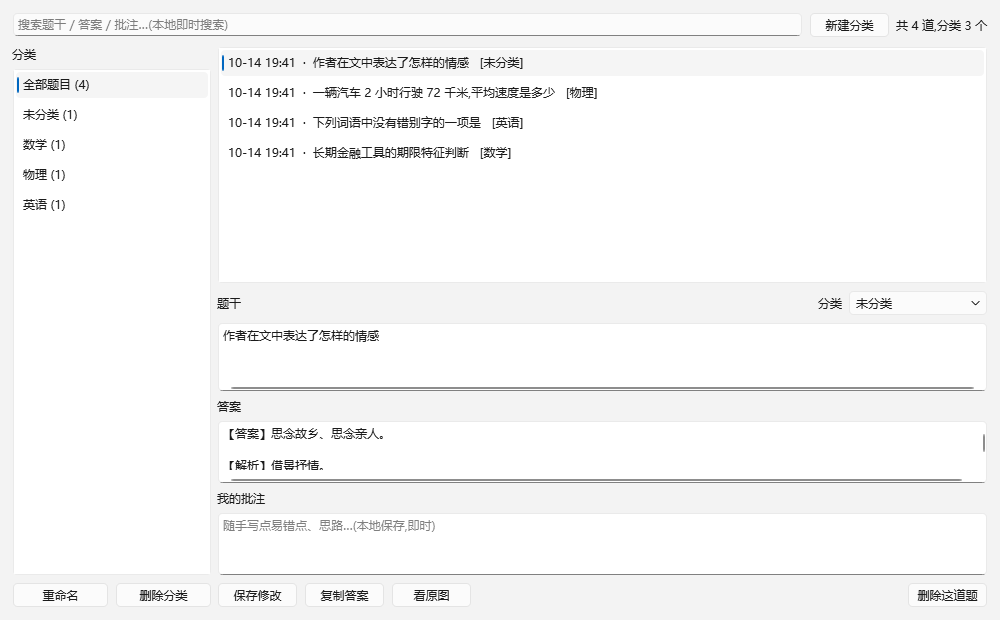
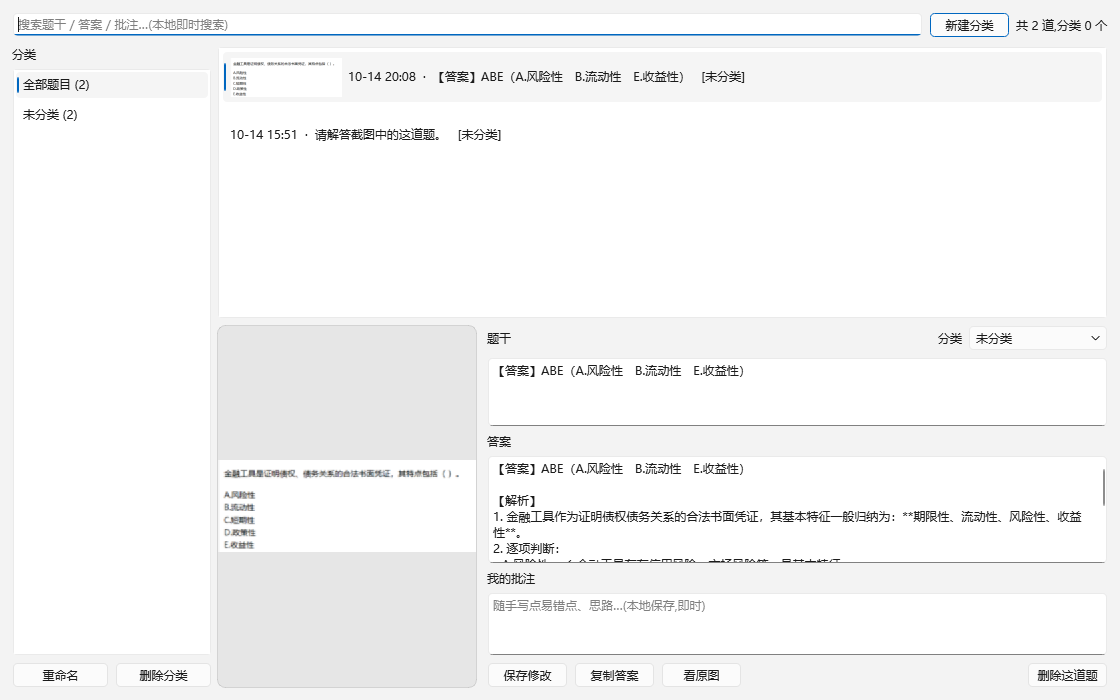
收藏夹:列表加缩略图,详情区显示题目大图(截图直接当题干)
- 列表每行显示截图缩略图,一眼认出是哪道题,不依赖文字识别
- 详情区左侧显示题目大图,点一下打开原图
- 配置加 prompt_version,老配置里存的旧默认提示词自动升级
  (之前改了默认提示词但被用户 config.json 覆盖,新要求永远不生效)

diff --git a/screen_qa/collection_window.py b/screen_qa/collection_window.py
@@ -8,8 +8,8 @@ from __future__ import annotations
 
 import os
 
-from PySide6.QtCore import Qt, Signal
-from PySide6.QtGui import QGuiApplication
+from PySide6.QtCore import QSize, Qt, Signal
+from PySide6.QtGui import QGuiApplication, QPixmap
 from PySide6.QtWidgets import (
     QComboBox,
     QDialog,
@@ -17,6 +17,7 @@ from PySide6.QtWidgets import (
     QInputDialog,
     QLabel,
     QLineEdit,
+    QSizePolicy,
     QListWidget,
     QListWidgetItem,
     QMessageBox,
@@ -32,6 +33,57 @@ from .logging_setup import log
 from .toast import toast
 
 _ALL_LABEL = "全部题目"
+_THUMB_SIZE = QSize(112, 44)      # 列表里缩略图的尺寸
+_ROW_HEIGHT = 54                  # 列表行高(要放得下缩略图)
+
+
+class ImagePreview(QLabel):
+    """按比例缩放显示截图,点一下可以打开原图。"""
+
+    clicked = Signal()
+
+    def __init__(self, parent=None) -> None:
+        super().__init__(parent)
+        self.setAlignment(Qt.AlignmentFlag.AlignCenter)
+        self.setMinimumWidth(240)
+        self.setSizePolicy(QSizePolicy.Policy.Fixed, QSizePolicy.Policy.Ignored)
+        self.setCursor(Qt.CursorShape.PointingHandCursor)
+        self.setStyleSheet(
+            "QLabel { background: rgba(128,128,128,28); border: 1px solid rgba(128,128,128,60);"
+            " border-radius: 8px; color: #8A93A5; }"
+        )
+        self._source: QPixmap | None = None
+        self.setText("选择左边的题目\n这里显示题目截图")
+
+    def set_image(self, pixmap: QPixmap | None) -> None:
+        self._source = pixmap
+        if pixmap is None or pixmap.isNull():
+            self.setText("(这道题没有截图)")
+            self.setToolTip("")
+            return
+        self.setText("")
+        self.setToolTip("点一下看原图")
+        self._rescale()
+
+    def _rescale(self) -> None:
+        if self._source is None or self._source.isNull():
+            return
+        available = self.size()
+        if available.width() < 20 or available.height() < 20:
+            return
+        self.setPixmap(self._source.scaled(
+            available, Qt.AspectRatioMode.KeepAspectRatio,
+            Qt.TransformationMode.SmoothTransformation))
+
+    def resizeEvent(self, event):  # noqa: N802
+        self._rescale()
+        super().resizeEvent(event)
+
+    def mousePressEvent(self, event):  # noqa: N802
+        if event.button() == Qt.MouseButton.LeftButton:
+            self.clicked.emit()
+        super().mousePressEvent(event)
+
 _UNSORTED_LABEL = "未分类"
 
 
@@ -49,8 +101,8 @@ class CollectionWindow(QDialog):
 
         self.setWindowTitle("收藏夹 - 截图自动搜题")
         self.setWindowFlag(Qt.WindowType.WindowContextHelpButtonHint, False)
-        self.setMinimumSize(880, 560)
-        self.resize(980, 640)
+        self.setMinimumSize(940, 600)
+        self.resize(1120, 700)
         self._build_ui()
         self.reload()
 
@@ -106,15 +158,30 @@ class CollectionWindow(QDialog):
         right_box.setSpacing(6)
 
         self.item_list = QListWidget(right)
+        self.item_list.setIconSize(_THUMB_SIZE)
+        self.item_list.setSpacing(2)
         self.item_list.currentRowChanged.connect(self._on_item_changed)
         right_box.addWidget(self.item_list, 3)
 
         detail = QWidget(right)
-        detail_box = QVBoxLayout(detail)
+        detail_box = QHBoxLayout(detail)
         detail_box.setContentsMargins(0, 0, 0, 0)
-        detail_box.setSpacing(6)
+        detail_box.setSpacing(10)
 
-        row1 = QWidget(detail)
+        # 左:题目截图大图
+        self.preview = ImagePreview(detail)
+        self.preview.setFixedWidth(260)
+        self.preview.clicked.connect(self.open_image)
+        detail_box.addWidget(self.preview)
+
+        # 右:文字
+        text_panel = QWidget(detail)
+        text_box = QVBoxLayout(text_panel)
+        text_box.setContentsMargins(0, 0, 0, 0)
+        text_box.setSpacing(6)
+        detail_box.addWidget(text_panel, 1)
+
+        row1 = QWidget(text_panel)
         row1_box = QHBoxLayout(row1)
         row1_box.setContentsMargins(0, 0, 0, 0)
         row1_box.addWidget(QLabel("题干", row1))
@@ -123,25 +190,25 @@ class CollectionWindow(QDialog):
         row1_box.addStretch(1)
         row1_box.addWidget(QLabel("分类", row1))
         row1_box.addWidget(self.folder_combo)
-        detail_box.addWidget(row1)
+        text_box.addWidget(row1)
 
         self.question_edit = QPlainTextEdit(detail)
         self.question_edit.setPlaceholderText("题干(可编辑,方便改错字)")
         self.question_edit.setFixedHeight(70)
-        detail_box.addWidget(self.question_edit)
+        text_box.addWidget(self.question_edit)
 
-        detail_box.addWidget(QLabel("答案"))
+        text_box.addWidget(QLabel("答案"))
         self.answer_edit = QPlainTextEdit(detail)
         self.answer_edit.setPlaceholderText("答案")
-        detail_box.addWidget(self.answer_edit, 1)
+        text_box.addWidget(self.answer_edit, 1)
 
-        detail_box.addWidget(QLabel("我的批注"))
+        text_box.addWidget(QLabel("我的批注"))
         self.note_edit = QPlainTextEdit(detail)
         self.note_edit.setFixedHeight(64)
         self.note_edit.setPlaceholderText("随手写点易错点、思路…(本地保存,即时)")
-        detail_box.addWidget(self.note_edit)
+        text_box.addWidget(self.note_edit)
 
-        btns = QWidget(detail)
+        btns = QWidget(text_panel)
         btn_row = QHBoxLayout(btns)
         btn_row.setContentsMargins(0, 0, 0, 0)
         self.save_btn = QPushButton("保存修改", btns)
@@ -157,7 +224,7 @@ class CollectionWindow(QDialog):
         btn_row.addWidget(image_btn)
         btn_row.addStretch(1)
         btn_row.addWidget(del_item_btn)
-        detail_box.addWidget(btns)
+        text_box.addWidget(btns)
 
         right_box.addWidget(detail, 4)
         splitter.addWidget(right)
@@ -209,16 +276,40 @@ class CollectionWindow(QDialog):
                 self.folder_combo.setCurrentIndex(index)
         self.folder_combo.blockSignals(False)
 
+    def _thumbnail(self, item_id: int) -> QPixmap | None:
+        """列表里的小图(带缓存,切分类不会反复解码)。"""
+        cache = getattr(self, "_thumb_cache", None)
+        if cache is None:
+            cache = self._thumb_cache = {}
+        if item_id in cache:
+            return cache[item_id]
+        path = self.collection.image_path(item_id)
+        pixmap = None
+        if path is not None:
+            raw = QPixmap(str(path))
+            if not raw.isNull():
+                pixmap = raw.scaled(_THUMB_SIZE, Qt.AspectRatioMode.KeepAspectRatio,
+                                    Qt.TransformationMode.SmoothTransformation)
+        cache[item_id] = pixmap
+        return pixmap
+
     def reload_items(self) -> None:
         self._loading = True
         self.item_list.clear()
         rows = self.collection.items(folder=self._current_folder, keyword=self.search.text())
         for row in rows:
-            title = (row["question"] or "(没有题干)").strip().splitlines()[0][:60] if row["question"] else "(没有题干)"
+            item_id = int(row["id"])
+            title = (row["question"] or "").strip().splitlines()[0][:60] if row["question"] else "(没有题干)"
             folder = row["folder"] or _UNSORTED_LABEL
             text = "%s  ·  %s   [%s]" % (row["created_at"][5:16], title, folder)
             item = QListWidgetItem(text)
-            item.setData(Qt.ItemDataRole.UserRole, int(row["id"]))
+            item.setData(Qt.ItemDataRole.UserRole, item_id)
+            thumb = self._thumbnail(item_id)
+            if thumb is not None:
+                from PySide6.QtGui import QIcon
+
+                item.setIcon(QIcon(thumb))
+            item.setSizeHint(QSize(0, _ROW_HEIGHT))
             self.item_list.addItem(item)
         self._loading = False
         self._current_item = None
@@ -227,6 +318,7 @@ class CollectionWindow(QDialog):
             self.item_list.setCurrentRow(0)
 
     def _clear_detail(self) -> None:
+        self.preview.set_image(None)
         self._loading = True
         self.question_edit.setPlainText("")
         self.answer_edit.setPlainText("")
@@ -259,6 +351,8 @@ class CollectionWindow(QDialog):
         if record is None:
             return
         self._current_item = item_id
+        path = self.collection.image_path(item_id)
+        self.preview.set_image(QPixmap(str(path)) if path is not None else None)
         self._loading = True
         self.question_edit.setPlainText(record["question"] or "")
         self.answer_edit.setPlainText(record["answer"] or "")
@@ -340,6 +434,7 @@ class CollectionWindow(QDialog):
         if answer != QMessageBox.StandardButton.Yes:
             return
         self.collection.delete_item(self._current_item)
+        getattr(self, "_thumb_cache", {}).pop(self._current_item, None)
         self.reload()
         toast("已删除", 1500)
         self.changed.emit()

diff --git a/screen_qa/config.py b/screen_qa/config.py
@@ -11,6 +11,10 @@ from typing import Any
 APP_NAME = "截图自动搜题"
 APP_VERSION = "1.0.0"
 
+# 提示词版本:以后改了默认提示词就 +1,
+# 老用户的 config.json 里存着旧提示词,靠这个自动升级(不然新要求永远不生效)
+PROMPT_VERSION = 2
+
 DEFAULT_CONFIG: dict[str, Any] = {
     # 谁来回答:workbuddy_acp(本地 WorkBuddy,推荐) / openai(官方 API)
     #            / cli(本地智能体命令行) / simple(自定义 HTTP 接口)
@@ -60,6 +64,7 @@ DEFAULT_CONFIG: dict[str, Any] = {
         "timeout_seconds": 180,
     },
     "hotkey": "Alt+Q",
+    "prompt_version": PROMPT_VERSION,
     "system_prompt": (
         "你是一个答题助手。用户会发来一道题目(可能是选择题、填空题、判断题或解答题)的截图。\n"
         "请严格按照下面的格式回答:\n"
@@ -88,6 +93,19 @@ DEFAULT_CONFIG: dict[str, Any] = {
     "autostart": False,
 }
 
+
+# 历史上出现过的默认提示词(用来判断用户是否自己改过)
+_LEGACY_PROMPTS: set[str] = {
+    (
+        "你是一个答题助手。用户会发来一道题目(可能是选择题、填空题、判断题或解答题)的截图。\n"
+        "请严格按照下面的格式回答:\n"
+        "1. 第一行用【答案】开头,直接给出最终答案。选择题给出选项字母及选项内容;"
+        "填空题/解答题给出关键结果。\n"
+        "2. 空一行后,用【解析】开头,给出简明、分步骤的讲解,说明为什么选它、其他选项错在哪里。\n"
+        "3. 若图片模糊、信息不全或含多道题,请指出,并按题号分别作答。\n"
+        "请用简体中文回答,不要重复题目原文,不要输出与题目无关的内容。"
+    ),
+}
 
 def app_dir() -> Path:
     """程序根目录(打包后为 exe 所在目录)。"""
@@ -130,7 +148,11 @@ def deep_merge(base: dict, override: dict) -> dict:
 
 
 def load_config() -> dict:
-    """读取配置;文件不存在或损坏时回落到默认值。"""
+    """读取配置;文件不存在或损坏时回落到默认值。
+
+    如果配置文件里存的是**旧版默认提示词**,自动升级成新版
+    (否则我们改了默认提示词,老用户永远用不上)。
+    """
     path = config_path()
     data: dict = {}
     if path.exists():
@@ -140,7 +162,24 @@ def load_config() -> dict:
                 data = {}
         except Exception:
             data = {}
-    return deep_merge(DEFAULT_CONFIG, data)
+
+    cfg = deep_merge(DEFAULT_CONFIG, data)
+    _migrate_prompt(cfg, data)
+    return cfg
+
+
+def _migrate_prompt(cfg: dict, raw: dict) -> None:
+    """把老配置里的旧默认提示词升级成新版(用户自己改过的提示词不动)。"""
+    saved_version = int(raw.get("prompt_version") or 0)
+    saved_prompt = str(raw.get("system_prompt") or "")
+    if saved_version >= PROMPT_VERSION:
+        return
+    if saved_prompt and saved_prompt not in _LEGACY_PROMPTS:
+        # 用户自己改过提示词 —— 尊重他的,只把版本号跟上
+        cfg["prompt_version"] = PROMPT_VERSION
+        return
+    cfg["system_prompt"] = DEFAULT_CONFIG["system_prompt"]
+    cfg["prompt_version"] = PROMPT_VERSION
 
 
 def save_config(cfg: dict) -> None:
